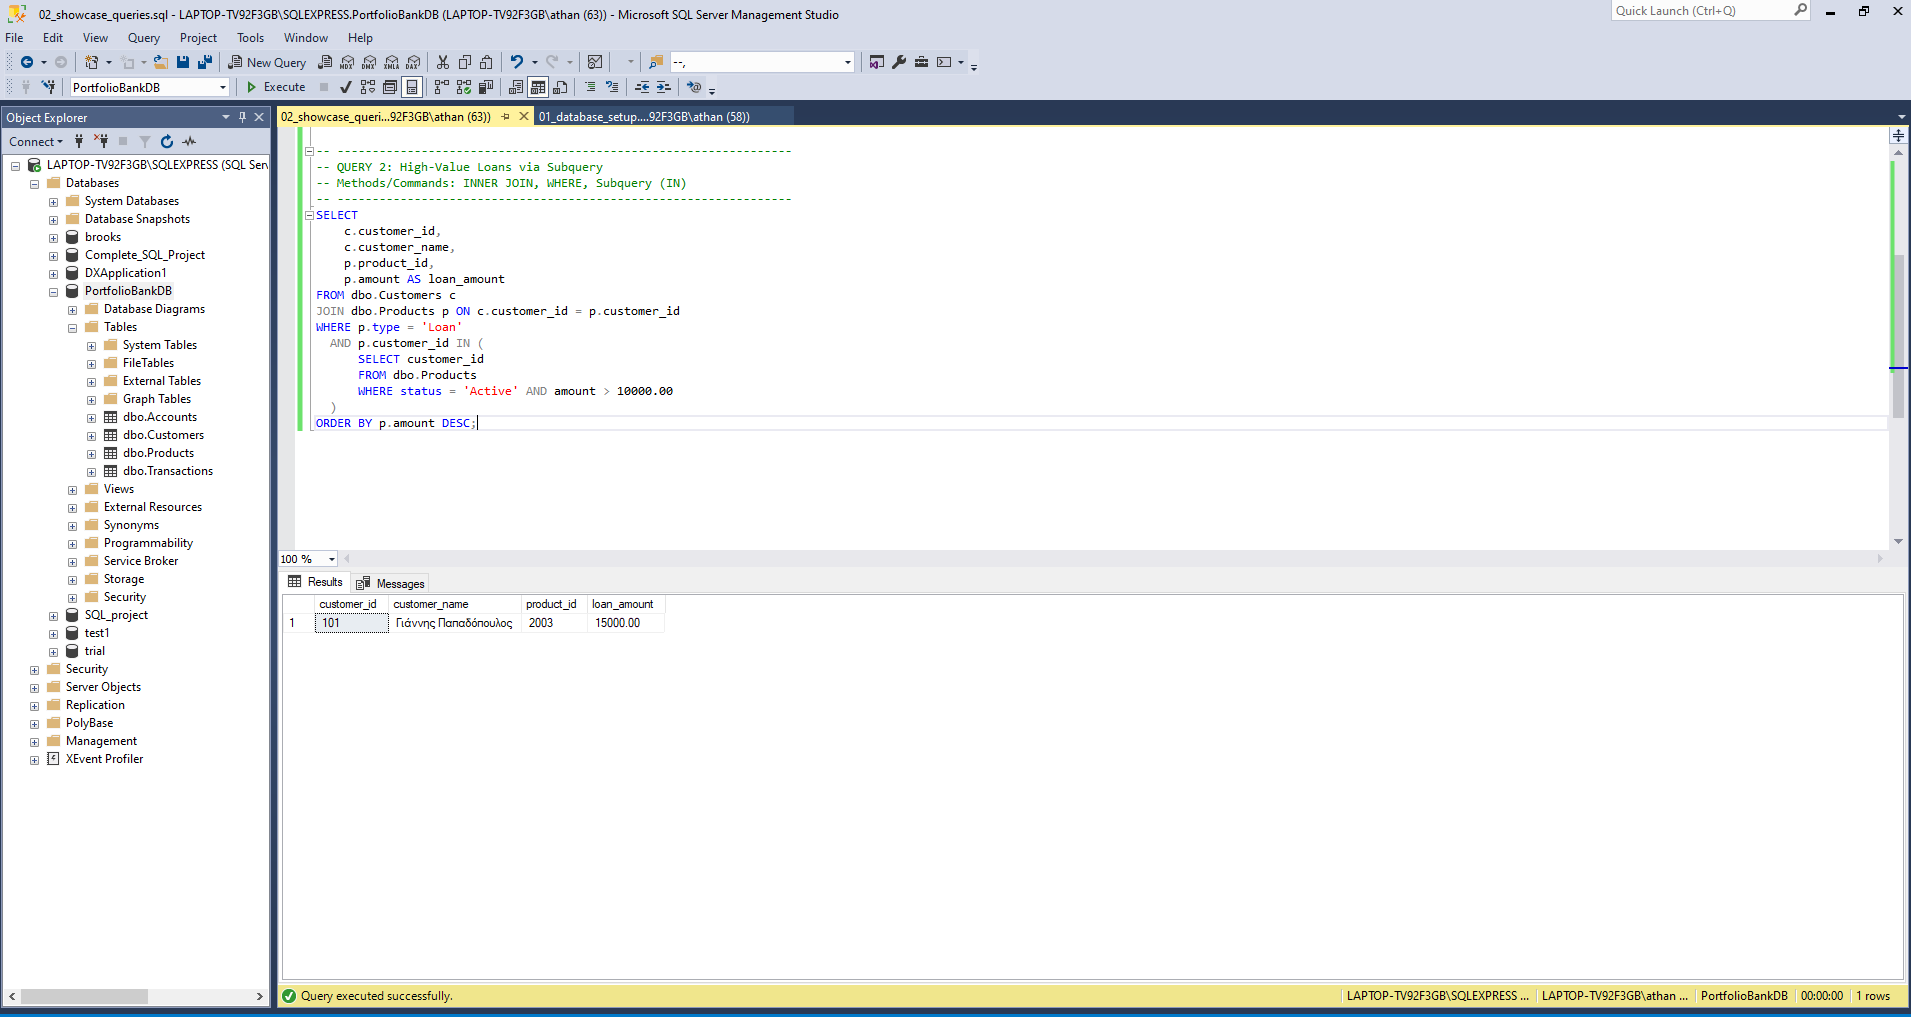
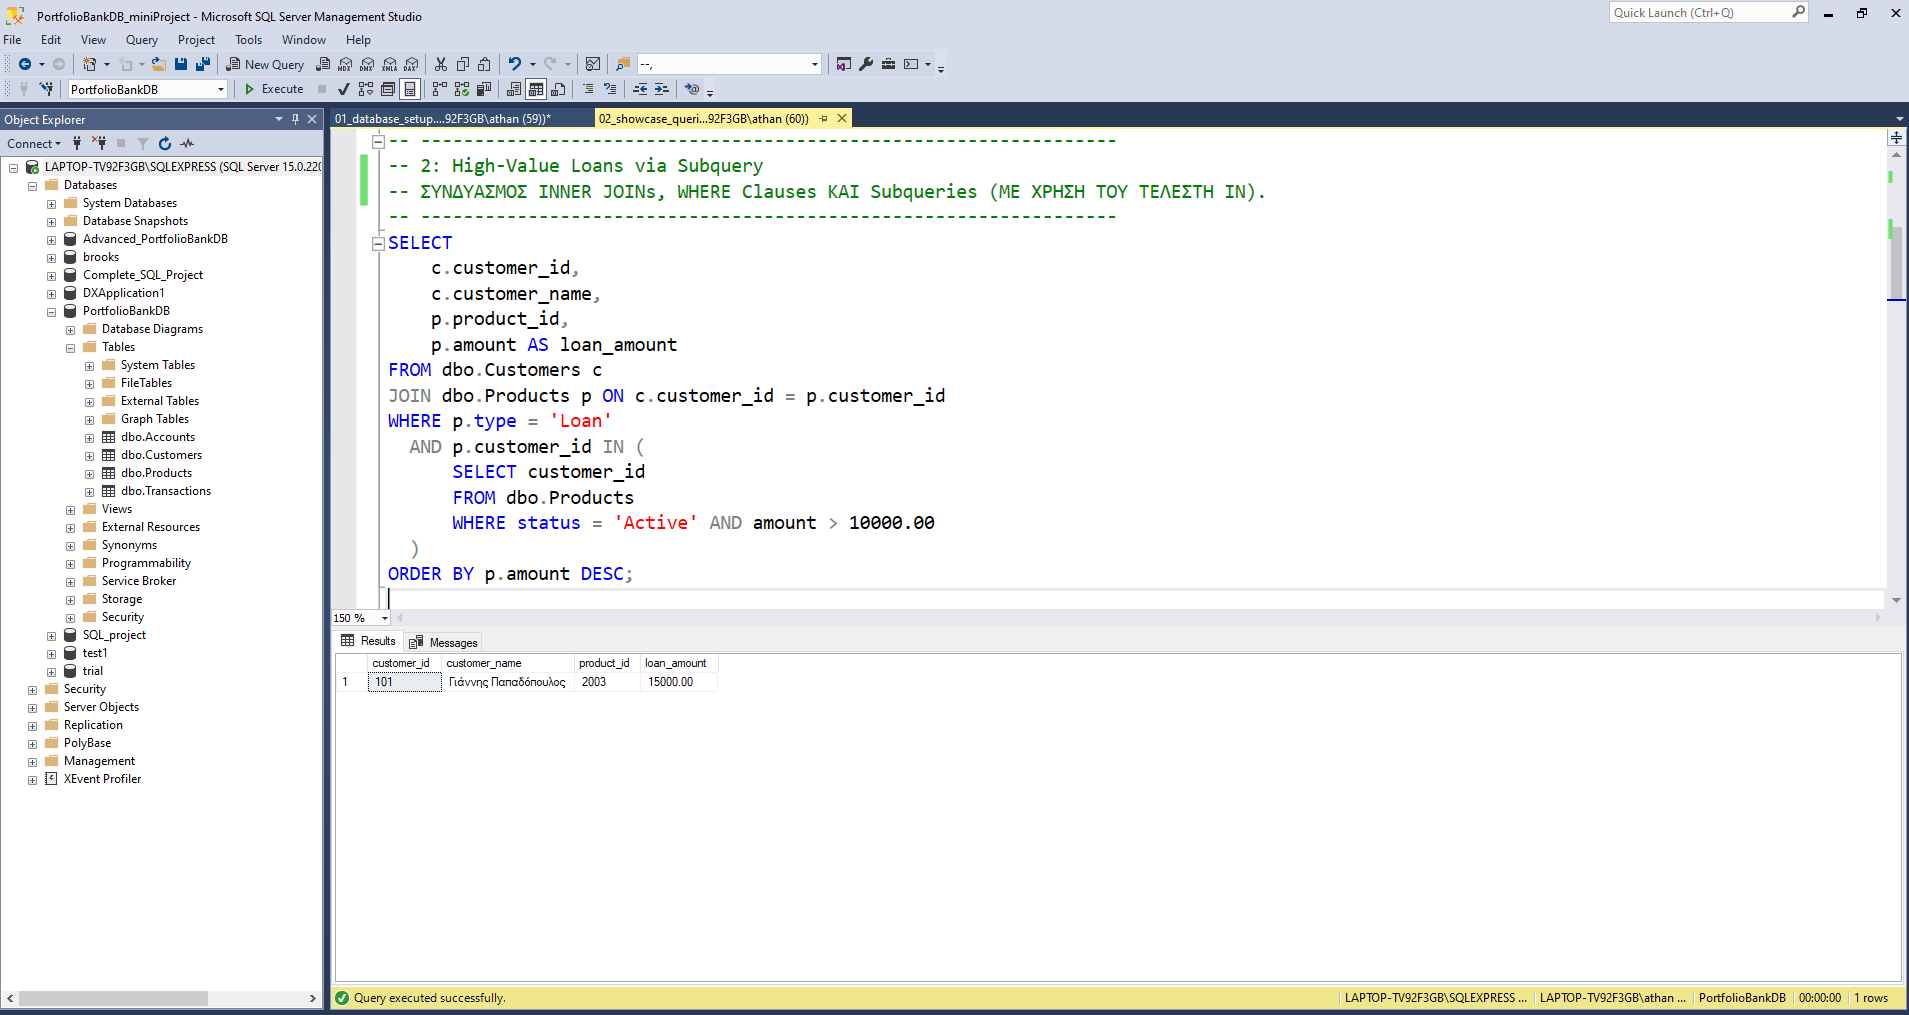
Update README.md and comments on SQL scripts

Changed region(s): [[0.0, 0.0, 1.0, 1.0], [0.8345, 0.0, 0.9581, 0.0305], [0.989, 0.0, 1.0, 0.0305]]

diff --git a/README.md b/README.md
@@ -8,7 +8,7 @@ A T-SQL mini project simulating core banking transactions and demonstrating key 
 
 The project consists of two main T-SQL scripts:
 1. **`01_db_setup.sql`**: Handles Database Creation, Schema Design (DDL), Data Population, and Foreign Key integrity rules.
-2. **`02_showcase_queries.sql`**: Contains 5 practical business queries demonstrating Joins, Aggregations, Subqueries, Flagging, CTEs, and Window Functions.
+2. **`02_showcase_queries.sql`**:Contains 5 practical business queries demonstrating Joins, Aggregations, Subqueries, Null Handling, Conditional Flagging, Sorting, CTEs, and Window Functions.
 
 ---
 
@@ -24,7 +24,7 @@ The database models a simple banking architecture with four tables: `Customers`,
 
 ### 1. Customer Portfolio Summary
 Calculates total accounts and total balance per customer using aggregate functions and left joins.
-* **Methods:** `LEFT JOIN`, `GROUP BY`, `SUM()`, `COUNT()`, `ISNULL()`
+* **Use of:** `LEFT JOIN`, `GROUP BY`, `SUM()`, `COUNT()`, `ISNULL()`
 
 ![Query 1](Screenshots_PortfolioBankDB_miniProject/02_query1_customer_portfolio.png)
 
@@ -32,7 +32,7 @@ Calculates total accounts and total balance per customer using aggregate functio
 
 ### 2. High-Value Loans via Subquery
 Identifies active loans linked to high-value customer criteria using nested subqueries.
-* **Methods:** `INNER JOIN`, `WHERE`, `Subquery (IN)`
+* **Use of:** `INNER JOIN`, `WHERE`, `Subquery (IN)`
 
 ![Query 2](Screenshots_PortfolioBankDB_miniProject/03_query2_high_value_loans.png)
 
@@ -40,7 +40,7 @@ Identifies active loans linked to high-value customer criteria using nested subq
 
 ### 3. Transaction Risk Flagging (AML Compliance)
 Performs automated risk categorization and flagging for anti-money laundering (AML) monitoring based on transaction amounts.
-* **Methods:** `CASE WHEN (Flagging)`, `ORDER BY`
+* **Use of:** `CASE WHEN (Flagging)`, `ORDER BY`
 
 ![Query 3](Screenshots_PortfolioBankDB_miniProject/04_query3_transaction_risk_flagging.png)
 
@@ -48,7 +48,7 @@ Performs automated risk categorization and flagging for anti-money laundering (A
 
 ### 4. Account Balance Ranking per Type via CTE
 Ranks accounts within each account type based on their balances using Common Table Expressions and window ranking functions.
-* **Methods:** `CTE (WITH)`, `DENSE_RANK() OVER (PARTITION BY)`, `INNER JOIN`
+* **Use of:** `CTE (WITH)`, `DENSE_RANK() OVER (PARTITION BY)`, `INNER JOIN`
 
 ![Query 4](Screenshots_PortfolioBankDB_miniProject/05_query4_account_ranking_cte.png)
 
@@ -56,7 +56,7 @@ Ranks accounts within each account type based on their balances using Common Tab
 
 ### 5. Running Balance per Account
 Calculates the historical running balance for every account ordered chronologically by transaction date.
-* **Methods:** `SUM() OVER (PARTITION BY ORDER BY)`, `CASE WHEN`
+* **Use of:** `SUM() OVER (PARTITION BY ORDER BY)`, `CASE WHEN`
 
 ![Query 5](Screenshots_PortfolioBankDB_miniProject/06_query5_running_balance.png)
 
